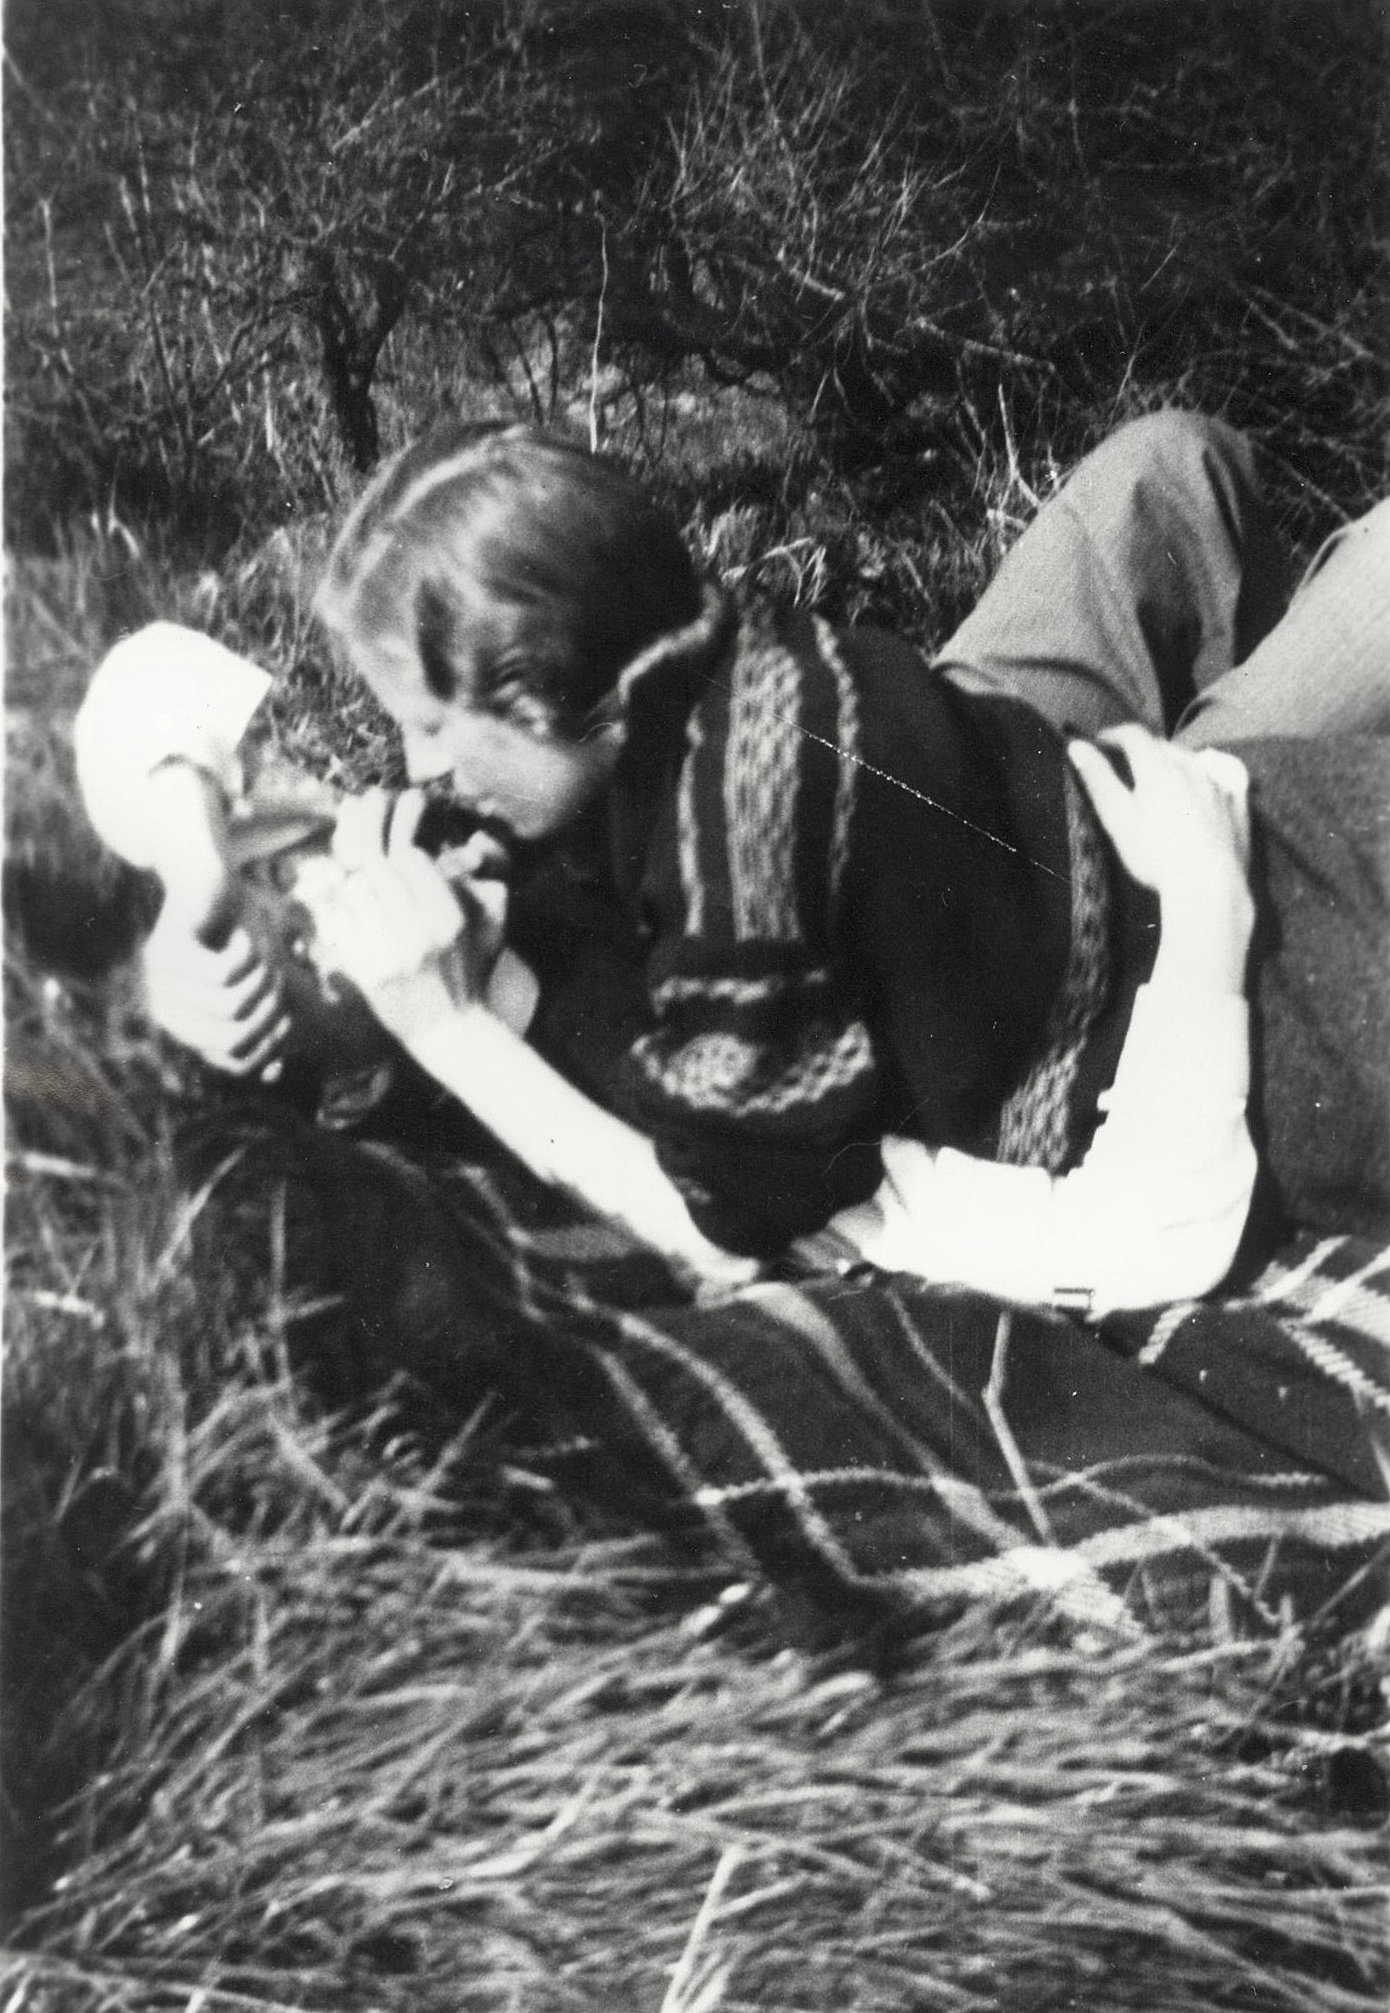
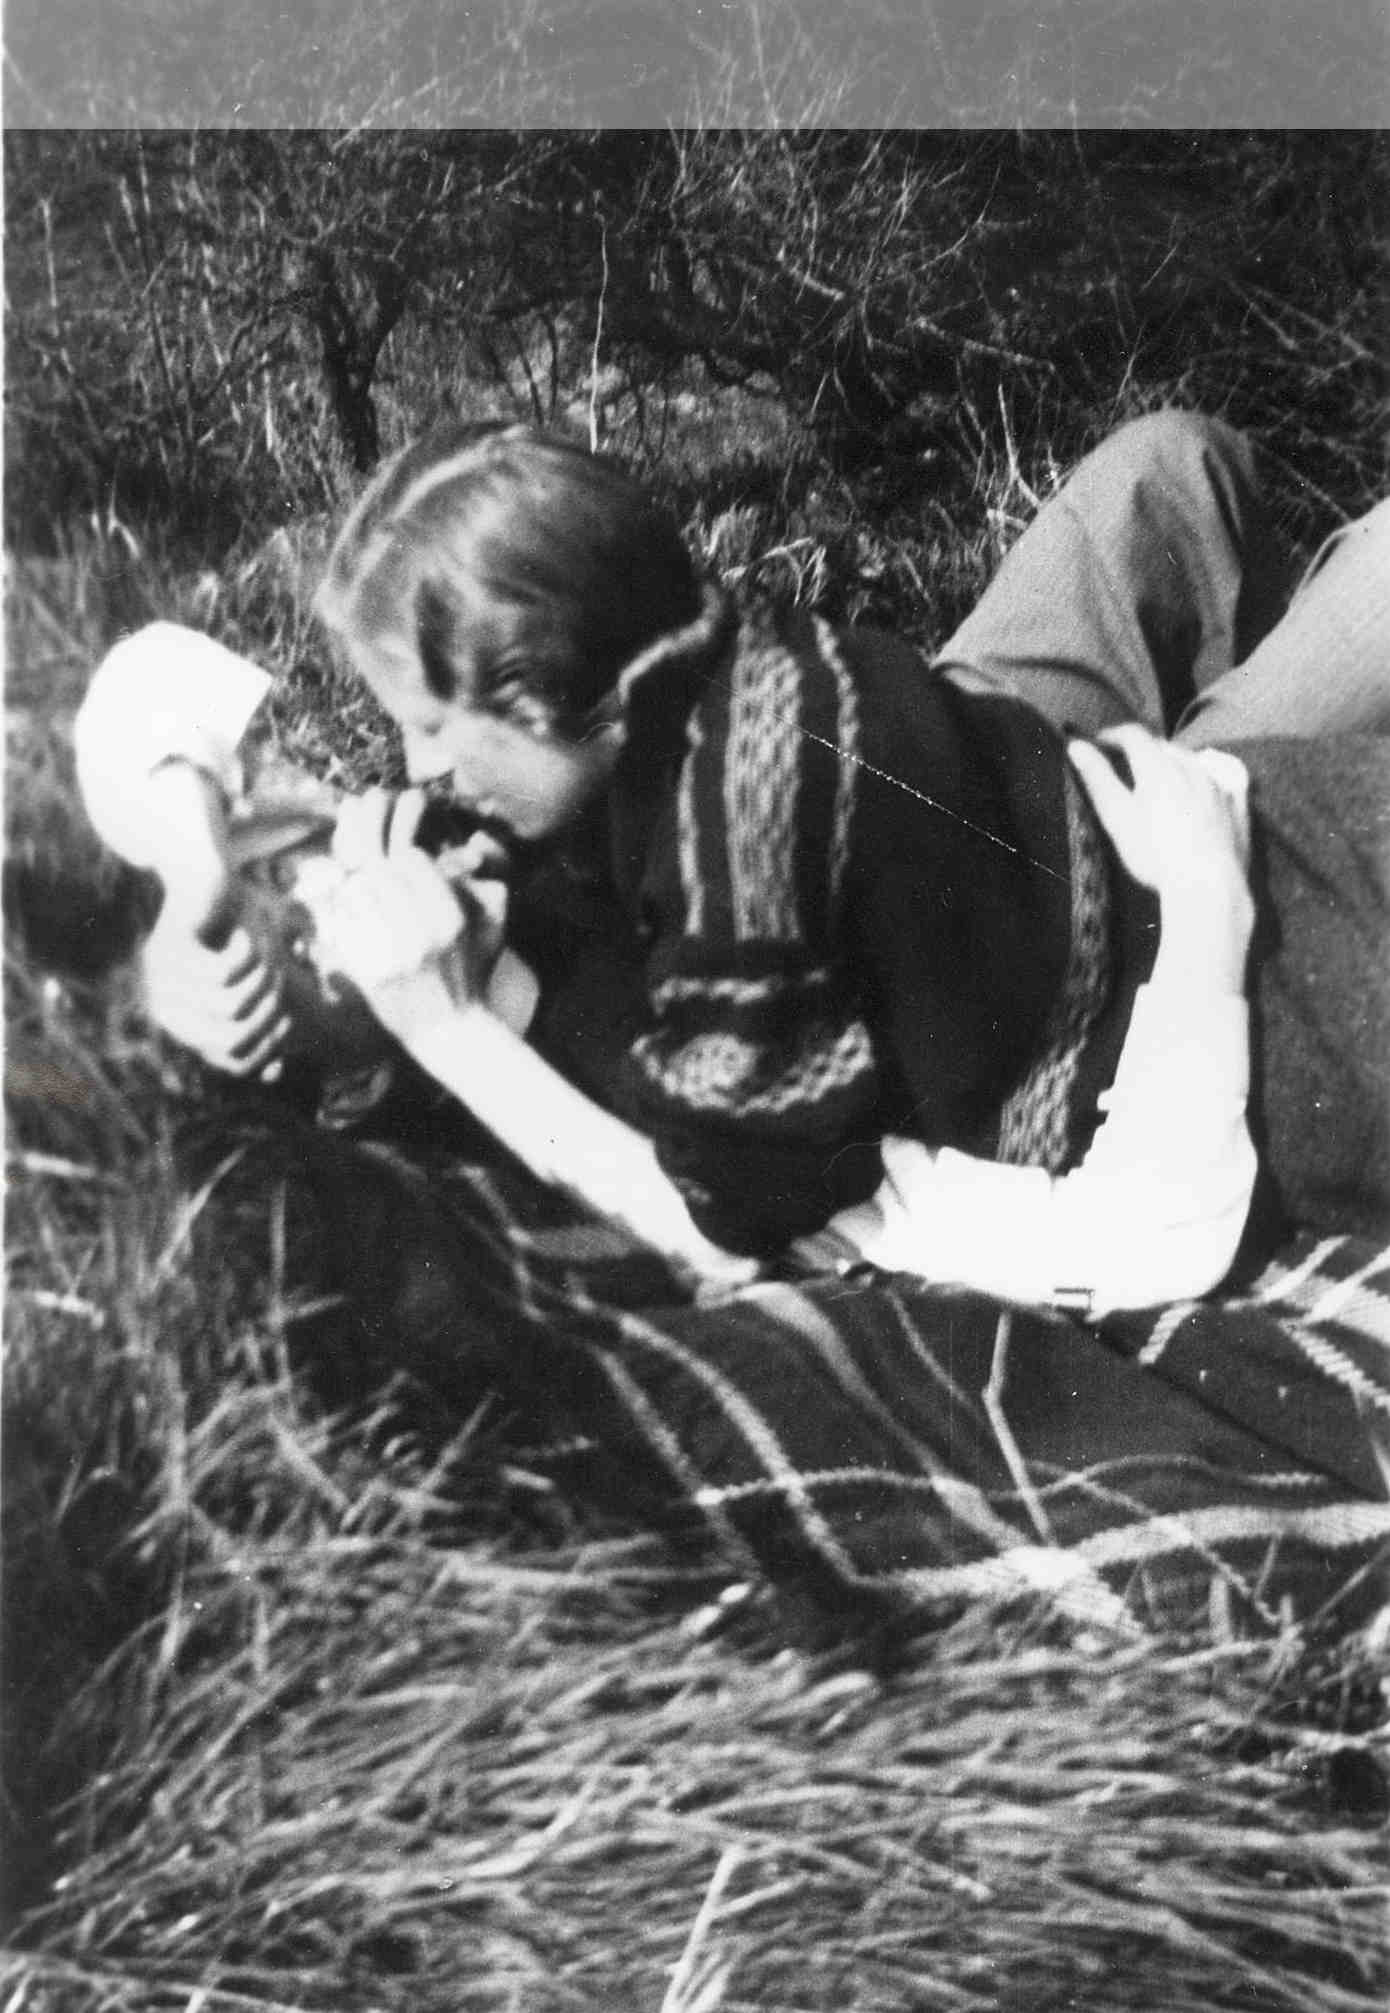
changing background and some styling

Changed region(s): [[0.0, 0.0, 1.0, 0.0616]]

diff --git a/sites/all/themes/ninesixty/styles/styles.css b/sites/all/themes/ninesixty/styles/styles.css
@@ -14,8 +14,13 @@ h1#site-name {
   margin-bottom: 1.5em;
 }
 
-/*we want a semi transparent header region*/
-#site-header .transparency_test
+/*we want a semi transparent header region - this solution not working with 960 it seems*/
+#site-header .transparency_test {
+  background-color: #ffffff;
+  /* for IE */
+  filter:alpha(opacity=60);
+  /* CSS3 standard */
+  opacity:0.6;
   height: 55px;
   position: absolute;
 }
